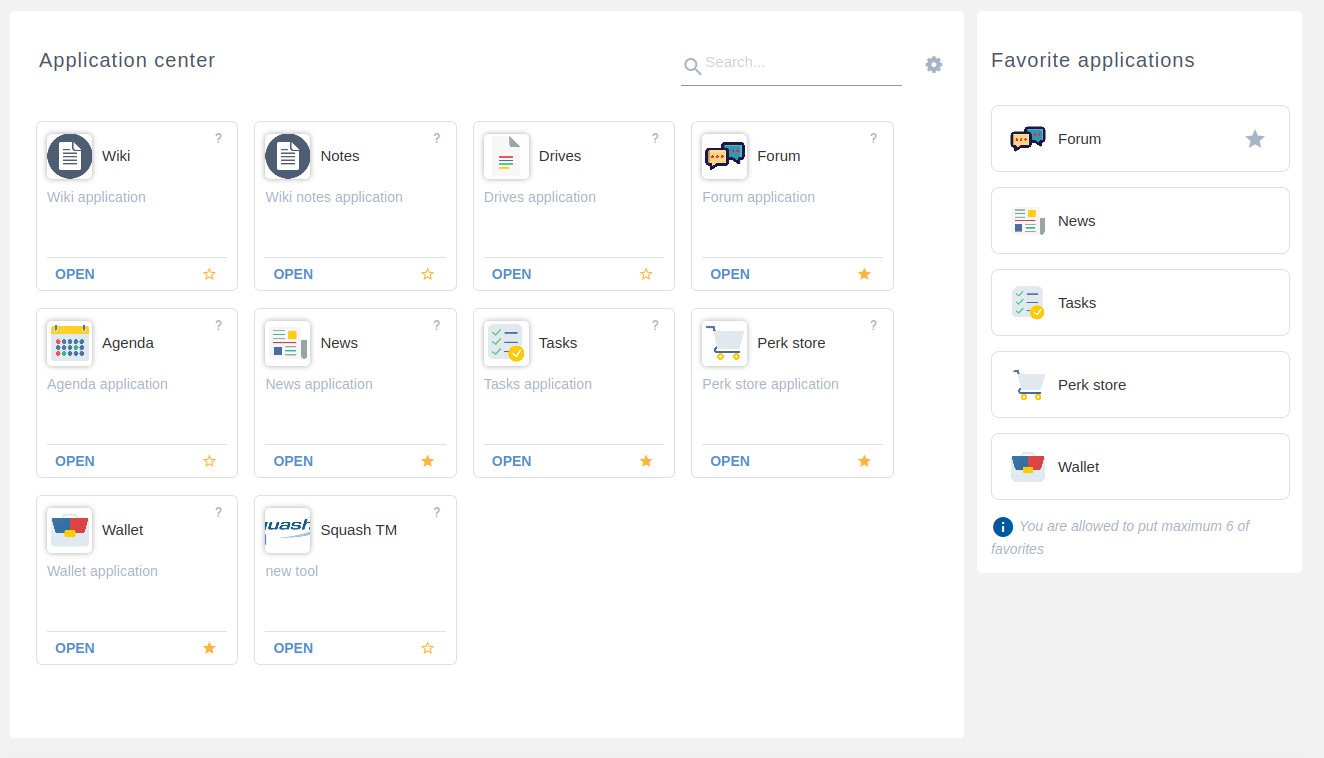
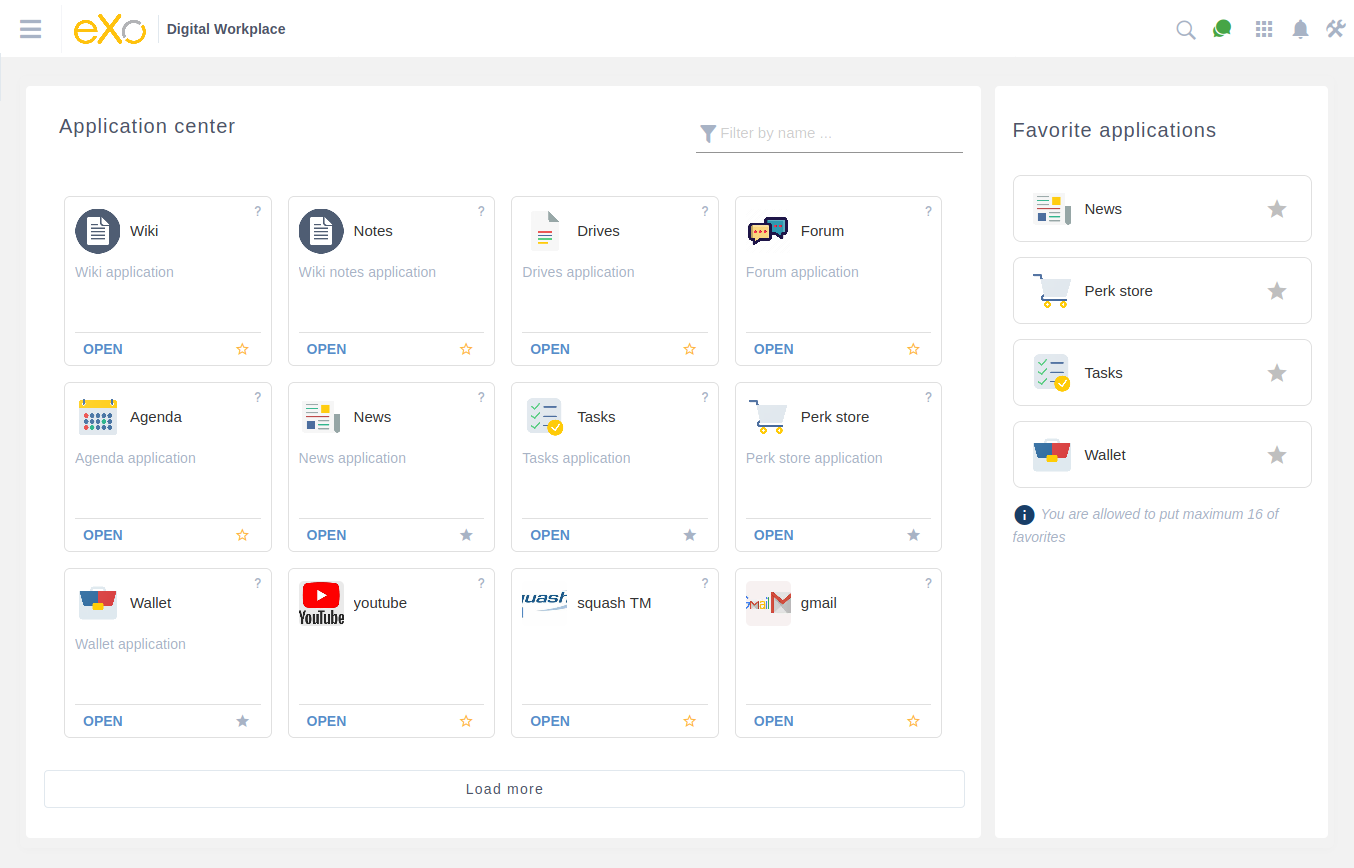
App center doc: Add administration section + Add app center new design

diff --git a/docs/PersonalApplications.rst b/docs/PersonalApplications.rst
@@ -524,16 +524,20 @@ the top navigation bar.
 
 |AC_image1|
 
-A drawer will open displaying your favourite applications alphabetically sorted.
+A drawer will open displaying:
+
+-  Mandatory applications defined by an administrator pinned in the drawer, alphabetically sorted but not draggable
+
+-  Your favorite applications alphabetically sorted, by default, could be dragged and dropped to define your own choice.
 
 |AC_image2|
+
+.. note:: A separation line is present to differentiate mandatory applications from your favorite ones.
  
-You can reorganize your favorite applications by dragging and dropping their icons according to your choice.
+As cited above, you can reorganize your favorite applications by dragging and dropping their icons according to your choice.
 
 |AC_image3|
  
-.. note:: When an administrator sets some applications as mandatory, they also appear in your Application
-          center drawer.
 
 When you click on an application icon it will open in the same tab if it is an eXo Platform, otherwise,
 it will open in a new tab.
@@ -545,17 +549,31 @@ You just need to click on |AC_image4| button in the drawer to access the Applica
 
 |AC_image5|
 
-Application center is divided into 2 parts: on the right listing your favorite applications and 
-on the the left listing the whole applications your are allowed to view and use.
+Application center is divided into 2 parts: on the right listing your favorite applications with mandatory applications pinned 
+in the top and on the the left listing the whole applications your are allowed to view and use.
 
-This second part contains applications cards with these details for each one:
+.. note:: Mandatory applications coudn't be unfavorized and their star button is grey colored and unclickable in both parts: 
+          Favorite applications list and Application Center. 
+          On the grey star button's hover, a tooltip appears with the information "Mandatory application".
+          
+          |AC_image11|
+
+The second part contains applications cards with these details for each one:
 
 -  Application's name and image
 -  Application's description
 -  Two buttons "Open" and |AC_image6| in the card's bottom
 -  The icon |AC_image7| in the card's topper
 
-You can favorite an application in the Application Center by clicking on the |AC_image8| in the application's card.
+.. _star-button:
+
+.. tip:: The star button contains three statuses:
+
+         - Grey color, not clickable: for mandatory applications
+         - Yellow borders and white body: for application not yet favorized
+         - Yellow color: for applications already favorized
+
+You can favorite an application in the Application Center by clicking on the :ref:`star button <star-button>` in the application's card.
 The "Star" button will then be yellow colored and the application will be automatically added to the right panel
 i.e. to the "favorite applications" list and to the drawer.
 
@@ -563,9 +581,15 @@ You can also unfavorite an application in the Application Center either by click
 "Star" button on the application's card or on the "Star" button |AC_image9| in front of the application's name in the
 "favorite applications" list.
 
+.. _max-fav-apps:
+
 .. note:: When you reach the maximum of allowed favorite defined by an administrator, a red colored message appears informing you that you are not allowed to add another favorite application.
           
           |AC_image10|
+          
+In the Application Center page, you can search for applications using a keyword allowing to filter on applications' names.
+
+|AC_image12|      
 
 
 .. _Managing-Notification:
@@ -1340,3 +1364,5 @@ such as:
 .. |AC_image8| image:: images/platform/AppCenter/UncheckStar.png
 .. |AC_image9| image:: images/platform/AppCenter/StarFavAppsList.png
 .. |AC_image10| image:: images/platform/AppCenter/maxFavAppsMsg.png
+.. |AC_image11| image:: images/platform/AppCenter/tooltip_mandatory.png
+.. |AC_image12| image:: images/platform/AppCenter/filter_app_center.png

diff --git a/docs/Administration.rst b/docs/Administration.rst
@@ -43,6 +43,9 @@ Administering eXo Platform
     -  :ref:`Administrating spaces <UserGuide.AdministratingSpaces>`
        Instructions on how to manage spaces, their permissions and templates in
        eXo Platform.
+       
+    -  :ref:`Managing Application Center <AdminAppCenter>`
+       Instructions on how to manage Application Center       
 
     -  :ref:`Managing sites <ManagingSites>`
        In-depth instructions on how to create, edit and delete sites.
@@ -3059,6 +3062,39 @@ this entry is updated:
 -  The number of removed users is incremented by 1 if a user has been removed from the group by an administrator (The removal from the group could only be done singularly i.e. only one user per action)
    
 -  The number of added users is increased if some users were added to the bound group by an administrator
+
+
+.. _AdminAppCenter:
+
+============================
+Managing Application Center
+============================
+
+As a platform administrator, you can manage the Application Center by:
+
+-  Defining the number of allowed favorite applications
+-  Defining mandatory applications that appear in every favorite applications drawer/list
+-  Defining default icon for added applications
+-  Adding new applications
+
+To access the administration menu for Application Center, you need to access to the left navigation menu through
+the hamburger icon -> Administration -> OTHER -> Applications
+
+|AC_image13|
+
+In the administration screen for Application Center, you have two tabs: Applications and Settings
+
+|AC_image14|
+
+.. _SettingsTabAppCenter:
+
+In the settings tab you can define the two properties:
+
+-  Number of favorites allowed: which defines the :ref:`maximum number of applications <max-fav-apps>` an end user is able to favorite
+
+-  Default app icon: which defines the icon that could take an application when it is added without icon
+
+.. _ApplicationsTabAppCenter:
 
 
 .. _ManagingSites:
@@ -6087,4 +6123,6 @@ The following image shows the screen when an anonymous user accesses
 .. |TA4| image:: images/platform/SpaceSettings.png
 .. |TA5| image:: images/platform/SpaceSettingsNavigations.png
 .. |TA6| image:: images/platform/DeleteNodeSpace.png
+.. |AC_image13| image:: images/platform/AppCenter/AdminMenuAppCenter.png
+.. |AC_image14| image:: images/platform/AppCenter/AdminAppCenterTabs.png
 
